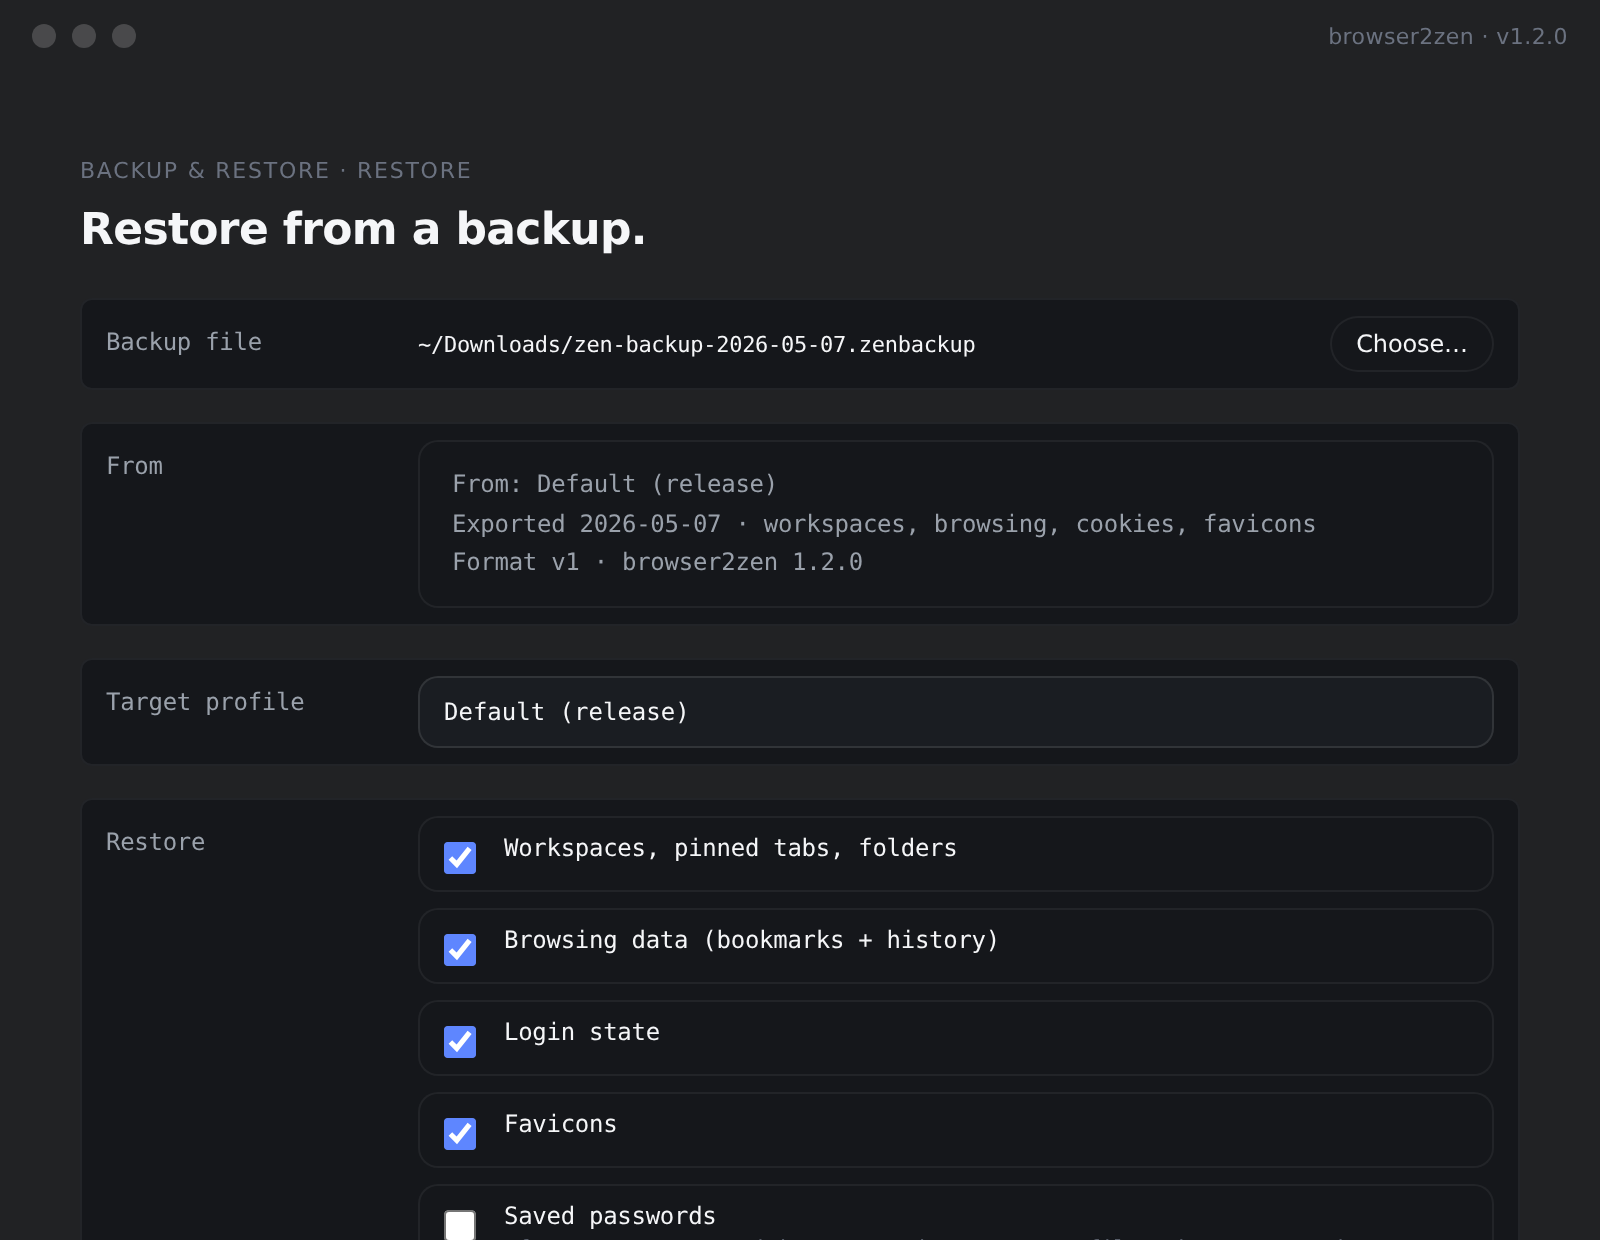
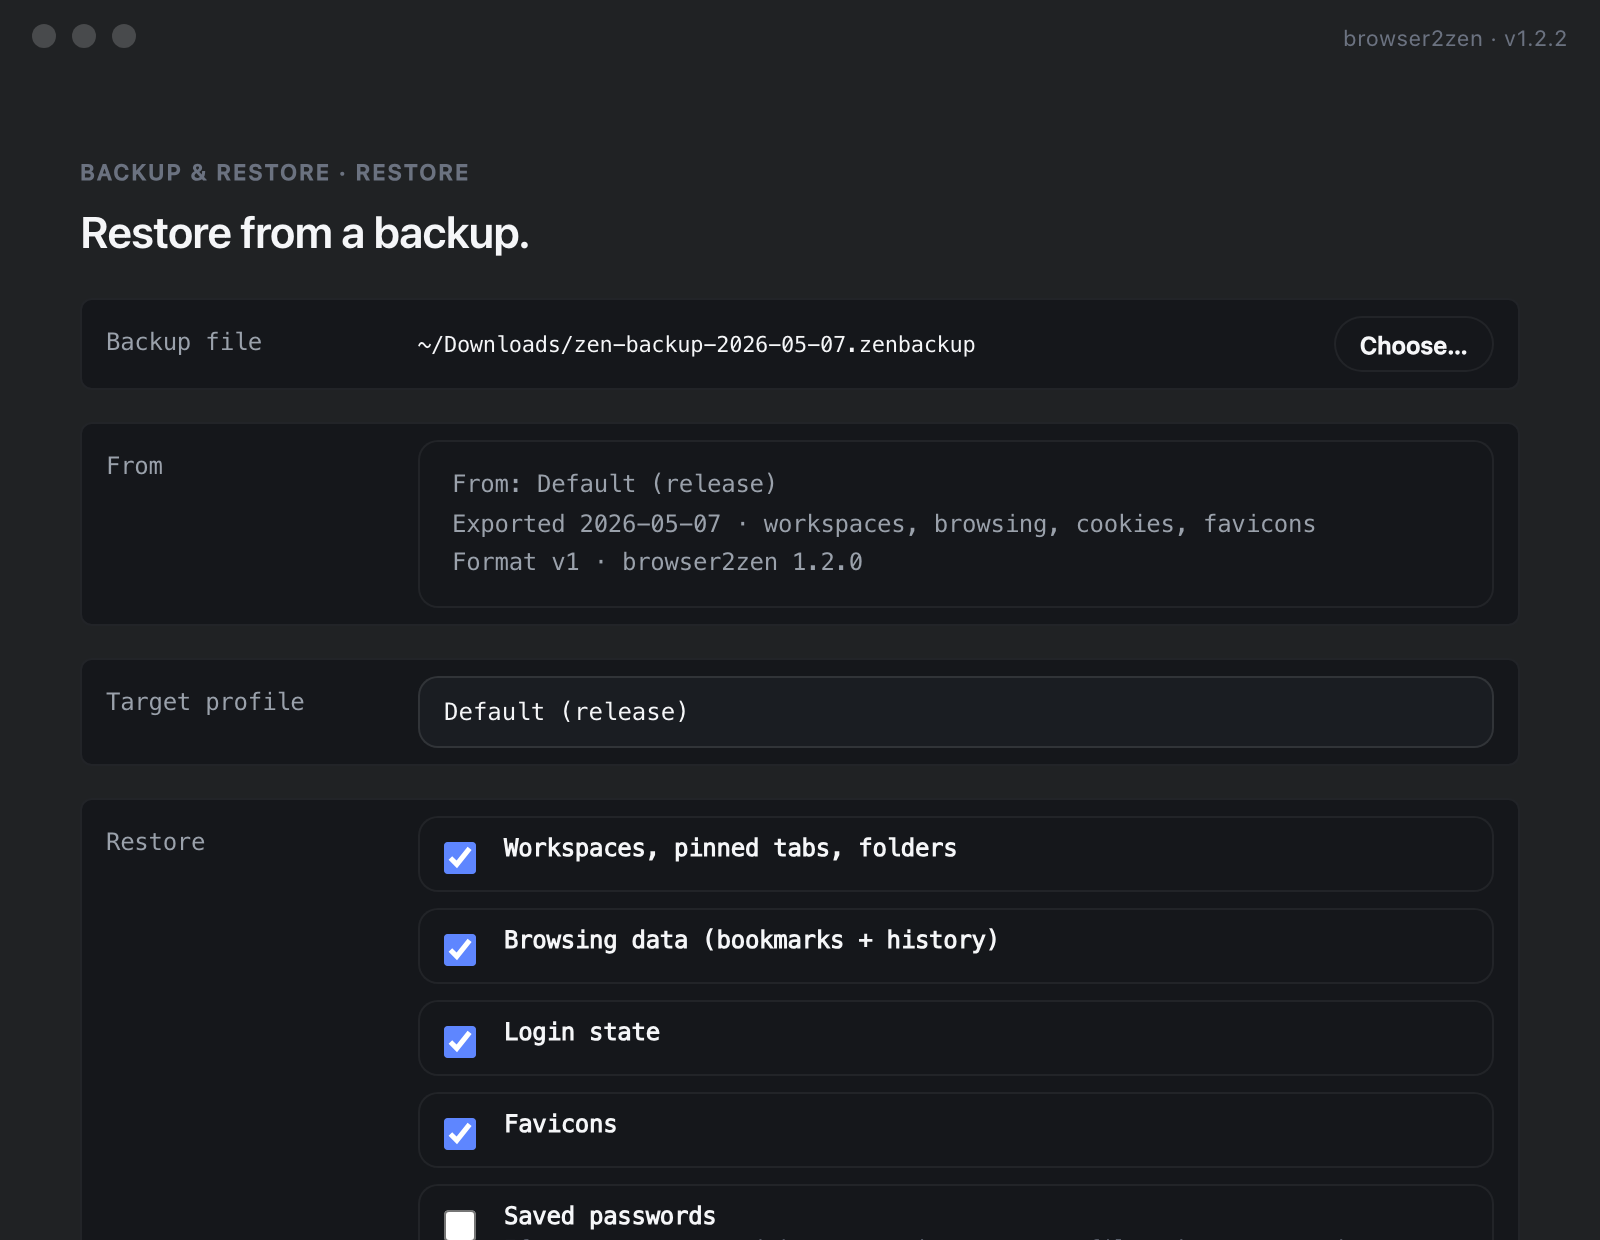
feat(backup): v1.2.2 — Zen Mods category + forward-compat importer guard
Adds a "mods" category to the .zenbackup format that captures the
profile's chrome/ directory (userChrome.css, userContent.css and any
per-mod subfolders the Zen Mods feature drops in there). On by default
so users moving between machines bring their UI customisations with
the rest of their setup.

Also hardens the importer: unknown categories in a manifest's included
list are now skipped with a clear reason instead of raising KeyError.
Lets older browser2zen builds open archives written by newer ones
without crashing.

Reported by Open_Magician_362 on r/zen_browser after a successful
v1.2 Zen → Twilight migration.

diff --git a/docs/screenshots/mock-bridge.js b/docs/screenshots/mock-bridge.js
@@ -34,6 +34,8 @@ const CATEGORIES = [
     caveat: "A few prefs reference absolute paths from the source machine." },
   { id: "extensions", label: "Extensions",                        default: false,
     caveat: "Extensions need to be compatible with the target machine's Zen version." },
+  { id: "mods",       label: "Zen Mods (UI customisations)",      default: true,
+    caveat: "If a mod targets a specific Zen version, the same Zen version is needed on the target." },
 ];
 
 const ENV_REPORT = {
@@ -49,7 +51,7 @@ const ENV_REPORT = {
 window.pywebview = {
   api: {
     platform:                async () => "mac",
-    version:                 async () => "1.2.0",
+    version:                 async () => "1.2.2",
     list_sources:            async () => SOURCES,
     set_source:              async (name) => {
       const found = SOURCES.find((s) => s.name === name) || SOURCES[0];

diff --git a/tests/fixtures/zen-with-data/Profiles/test.default (release)/chrome/userChrome.css b/tests/fixtures/zen-with-data/Profiles/test.default (release)/chrome/userChrome.css
@@ -1,0 +1,5 @@
+/* Test fixture Zen Mod — recolour the toolbar so the round-trip test
+   has something deterministic to check.  */
+:root {
+  --toolbar-bg: #1a1a1a;
+}

diff --git a/tests/test_zen_backup.py b/tests/test_zen_backup.py
@@ -256,4 +256,91 @@ def test_export_unknown_category(source_profile, tmp_path):
 
 def test_all_categories_includes_defaults():
     assert set(DEFAULT_CATEGORIES) <= set(ALL_CATEGORIES)
-    assert set(DEFAULT_CATEGORIES) == {"workspaces", "browsing", "cookies", "favicons"}
+    assert set(DEFAULT_CATEGORIES) == {
+        "workspaces", "browsing", "cookies", "favicons", "mods",
+    }
+
+
+# ----- Zen Mods round-trip ------------------------------------------------
+
+def test_mods_roundtrip(source_profile, empty_profile, tmp_path):
+    archive = tmp_path / "mods.zenbackup"
+    result = ZenBackupExporter(
+        source_profile, archive, includes=["mods"],
+    ).export()
+    assert result["ok"], result
+
+    # The fixture's chrome/userChrome.css should be in the archive.
+    with tarfile.open(archive, "r:gz") as tar:
+        members = sorted(m.name for m in tar.getmembers() if m.isfile())
+    assert "profile/chrome/userChrome.css" in members
+    # And nothing from the unrelated categories.
+    assert "profile/places.sqlite" not in members
+
+    restore = ZenBackupImporter(
+        archive, empty_profile, includes=["mods"],
+    ).import_archive()
+    assert restore["ok"], restore
+    landed = empty_profile / "chrome" / "userChrome.css"
+    assert landed.is_file()
+    expected = (source_profile / "chrome" / "userChrome.css").read_bytes()
+    assert landed.read_bytes() == expected
+
+
+# ----- Restore preserves untouched mod siblings on the target ------------
+
+def test_mods_restore_is_additive(source_profile, empty_profile, tmp_path):
+    archive = tmp_path / "mods.zenbackup"
+    ZenBackupExporter(source_profile, archive, includes=["mods"]).export()
+
+    # Pre-seed a mod the archive doesn't carry.
+    target_chrome = empty_profile / "chrome"
+    target_chrome.mkdir(exist_ok=True)
+    sentinel = target_chrome / "other-mod.css"
+    sentinel.write_text("/* user's local mod */")
+
+    result = ZenBackupImporter(
+        archive, empty_profile, includes=["mods"],
+    ).import_archive()
+    assert result["ok"], result
+
+    # The archive's userChrome.css landed.
+    assert (target_chrome / "userChrome.css").is_file()
+    # The user's untouched local mod is still there (additive merge —
+    # same semantics extensions/ already use).
+    assert sentinel.is_file()
+    assert sentinel.read_text() == "/* user's local mod */"
+
+
+# ----- Forward-compat: importer skips unknown categories cleanly ---------
+
+def test_unknown_category_is_skipped_not_fatal(source_profile, empty_profile, tmp_path):
+    archive = tmp_path / "future.zenbackup"
+    ZenBackupExporter(source_profile, archive,
+                      includes=list(DEFAULT_CATEGORIES)).export()
+
+    # Hand-rewrite the manifest so it advertises a category this version
+    # of browser2zen doesn't know about.
+    extracted = tmp_path / "extracted"
+    extracted.mkdir()
+    with tarfile.open(archive, "r:gz") as tar:
+        tar.extractall(extracted)
+    manifest_path = extracted / "manifest.json"
+    manifest = json.loads(manifest_path.read_text())
+    manifest["included"].append("future-cat")
+    manifest_path.write_text(json.dumps(manifest))
+    archive.unlink()
+    with tarfile.open(archive, "w:gz") as tar:
+        for f in extracted.rglob("*"):
+            if f.is_file():
+                tar.add(f, arcname=str(f.relative_to(extracted)))
+
+    # Restore everything in the manifest. The unknown category should
+    # show up in skipped, not blow up the whole restore.
+    result = ZenBackupImporter(archive, empty_profile).import_archive()
+    assert result["ok"] is True, result
+    skipped_cats = [s.get("category") for s in result["skipped"]
+                    if "category" in s]
+    assert "future-cat" in skipped_cats
+    # The known categories still land.
+    assert (empty_profile / "places.sqlite").is_file()

diff --git a/src/zen_backup.py b/src/zen_backup.py
@@ -84,13 +84,19 @@ CATEGORY_FILES: dict[str, tuple[str, ...]] = {
         "addonStartup.json.lz4",
         "extensions",   # directory; recursed below
     ),
+    "mods": (
+        # Zen Mods (UI customisations, themes) live in the profile's
+        # chrome/ directory: userChrome.css, userContent.css, plus any
+        # per-mod subfolders the Zen Mods feature drops in there.
+        "chrome",       # directory; recursed below — captures everything
+    ),
 }
 
 # All categories in canonical order — used as default for "include
 # everything in the archive" on the importer.
 ALL_CATEGORIES = tuple(CATEGORY_FILES.keys())
 
-DEFAULT_CATEGORIES = ("workspaces", "browsing", "cookies", "favicons")
+DEFAULT_CATEGORIES = ("workspaces", "browsing", "cookies", "favicons", "mods")
 
 # SQLite file suffixes that must travel with the main file.
 _SQLITE_SIBLINGS = ("-wal", "-shm", "-journal")
@@ -341,7 +347,14 @@ class ZenBackupImporter:
 
         active_files: set[str] = set()
         for cat in active:
-            for f in CATEGORY_FILES[cat]:
+            cat_files = CATEGORY_FILES.get(cat)
+            if cat_files is None:
+                # Forward-compat: a newer browser2zen could have written
+                # an archive with a category we don't know about. Skip
+                # cleanly instead of KeyError-ing.
+                result["skipped"].append({"category": cat, "reason": "unknown_category"})
+                continue
+            for f in cat_files:
                 # Both the file itself and any directory prefix are
                 # recorded so the per-member filter below can match
                 # extension subdirectories like ``extensions/abc/...``.

diff --git a/tests/fixtures/_build_zen_with_data_fixture.py b/tests/fixtures/_build_zen_with_data_fixture.py
@@ -167,6 +167,22 @@ def _write_zen_sessions(out: Path) -> None:
     _write_mozlz4(out, sessions)
 
 
+_USER_CHROME_CSS = """\
+/* Test fixture Zen Mod — recolour the toolbar so the round-trip test
+   has something deterministic to check.  */
+:root {
+  --toolbar-bg: #1a1a1a;
+}
+"""
+
+
+def _write_zen_mods(profile: Path) -> None:
+    """Drop a chrome/userChrome.css so the mods category has content."""
+    chrome = profile / "chrome"
+    chrome.mkdir(exist_ok=True)
+    (chrome / "userChrome.css").write_text(_USER_CHROME_CSS)
+
+
 def main() -> None:
     PROFILE.mkdir(parents=True, exist_ok=True)
     _populate_places(PROFILE / "places.sqlite")
@@ -177,6 +193,7 @@ def main() -> None:
     # Some Zen profiles also have a sessionstore.jsonlz4; mirror it from
     # zen-sessions so the backup flow has a second file to handle.
     _write_zen_sessions(PROFILE / "sessionstore.jsonlz4")
+    _write_zen_mods(PROFILE)
     print(f"wrote zen-with-data fixture under {PROFILE}")
 
 

diff --git a/app/bridge.py b/app/bridge.py
@@ -400,6 +400,11 @@ class Bridge:
              "caveat": "Extensions need to be compatible with the target "
                        "machine's Zen version. Mismatches can leave "
                        "extensions disabled. Adds the most archive size."},
+            {"id": "mods", "label": "Zen Mods (UI customisations)",
+             "default": True,
+             "caveat": "If a mod targets a specific Zen version, the same "
+                       "Zen version is needed on the target for it to "
+                       "render correctly."},
         ]
 
     def choose_path(self, kind: str, default_name: str = "") -> str | None:

diff --git a/app/__version__.py b/app/__version__.py
@@ -9,4 +9,4 @@ Update this file when cutting a new tag; the matching ``v<version>``
 git tag triggers the GitHub Actions release workflow.
 """
 
-VERSION = "1.2.1"
+VERSION = "1.2.2"

diff --git a/README.md b/README.md
@@ -147,9 +147,9 @@ welcome screen, click **Backup or restore Zen** and pick a direction:
 
 - **Export** bundles your current Zen profile into a single
   `.zenbackup` file (gzipped tarball with a `manifest.json`). Pick which
-  categories to include — workspaces, browsing data, login state and
-  favicons are on by default; saved passwords, preferences and
-  extensions are opt-in because they're more fragile across machines.
+  categories to include — workspaces, browsing data, login state,
+  favicons, and Zen Mods are on by default; saved passwords, preferences
+  and extensions are opt-in because they're more fragile across machines.
 - **Restore** opens an existing `.zenbackup` and writes its contents
   into a Zen profile on this machine. Each target file gets a
   timestamped backup before it's overwritten.
